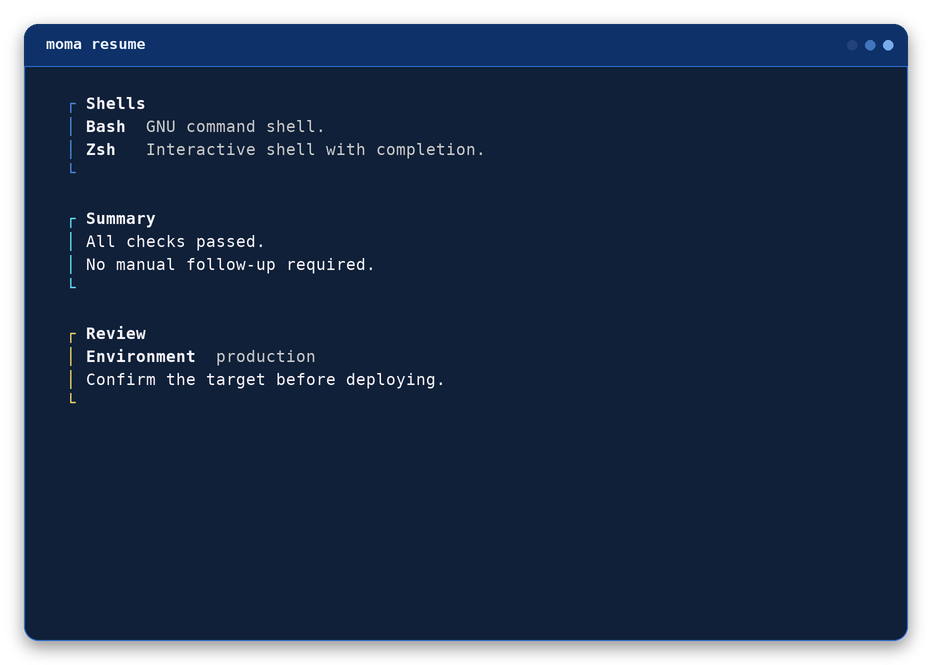
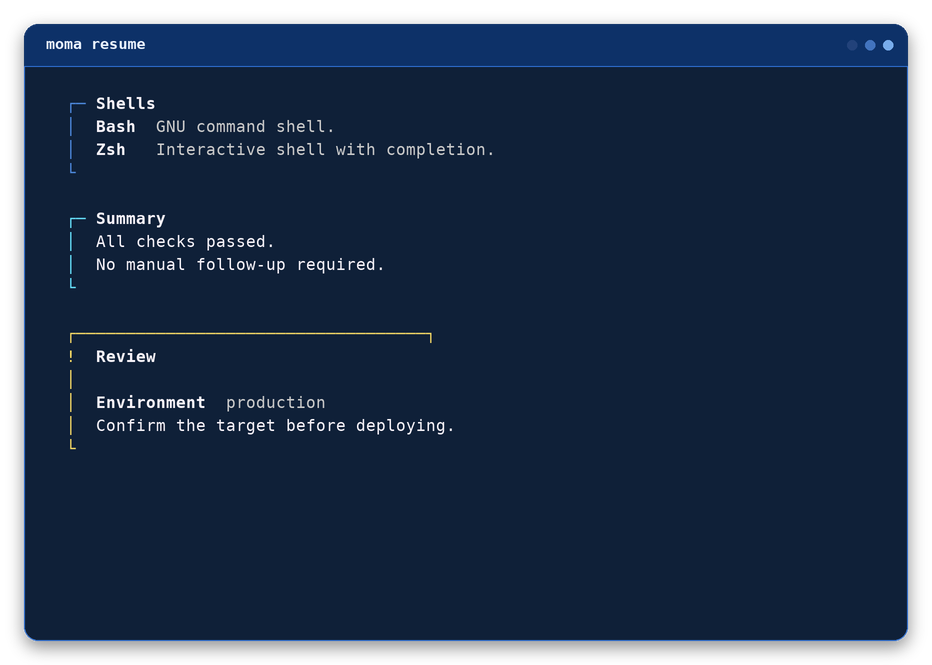
✨ feat(resume): add boxed title-style header and border options
Reuses moma-title's marker conventions instead of inventing a separate
component: --icon/--no-icon (plus --success|--error|--warning|--info)
switch resume's single-line title to a boxed header - full-width top
border, marker + title line, blank separator row - and --border
mirror|line|open controls whether the block closes with └. Also widens
resume's default indentation by one column (┌─ instead of ┌, one more
space after │) so the plain and boxed headers line up with each other.

diff --git a/web/src/data/apiEntries.ts b/web/src/data/apiEntries.ts
@@ -215,21 +215,27 @@ export const API_ENTRIES: ApiEntryData[] = [
     id: 'moma-resume',
     kind: 'Content block component',
     name: 'resume',
-    descriptionHtml: 'Titled, colored content block for grouping related information, such as a résumé section or a categorized reference list. Rows come from repeated <code>--item</code> (a bold term next to a muted description, aligned as a column) and <code>--text</code> (a plain line), interleaved in the order given.',
-    signature: 'moma resume --title "<text>" [--item "term" "description"]... [--text "line"]... [--success|--error|--warning|--info] [--color color] [--no-color]',
-    searchText: 'moma-resume resume block by blocks definition list term description column grouped section color item text',
+    descriptionHtml: 'Titled, colored content block for grouping related information, such as a résumé section or a categorized reference list. Rows come from repeated <code>--item</code> (a bold term next to a muted description, aligned as a column) and <code>--text</code> (a plain line), interleaved in the order given. The title is a single open line by default; setting an icon switches to a boxed header, mirroring <code>moma-title</code>\'s own marker conventions.',
+    signature: 'moma resume --title "<text>" [--item "term" "description"]... [--text "line"]... [--success|--error|--warning|--info] [--color color] [--icon char] [--no-icon] [--border mirror|line|open] [--width number] [--max-width number] [--no-color]',
+    searchText: 'moma-resume resume block by blocks definition list term description column grouped section color item text icon marker border mirror line open boxed header',
     group: 'visual',
     examples: [
       'moma resume --title "Shells" --color blue --item "Bash" "GNU command shell." --item "Zsh" "Interactive shell with completion."',
       'moma resume --title "Summary" --text "All checks passed." --text "No manual follow-up required."',
       'moma resume --title "Review" --warning --item "Environment" "production" --text "Confirm the target before deploying."',
+      'moma resume --title "Moma Terminal UI library" --no-icon --border open --text "element 1" --text "element 2"',
     ],
     options: [
       { flag: '--title <text>', description: 'Required block heading text. The component errors if this is never supplied.' },
       { flag: '--item <term> <description>', description: 'Repeatable. Adds one row with a bold term and a muted description, all terms aligned to the widest one in the block.' },
       { flag: '--text <line>', description: 'Repeatable. Adds one row of plain text with no term column.' },
-      { flag: '--success | --error | --warning | --info', description: "Sets only the block's border/title color to the semantic color - this component never shows an icon." },
+      { flag: '--success | --error | --warning | --info', description: 'Sets the border/title color to the semantic color and switches on the boxed header with the matching icon (✔, ✖, !, →).' },
       { flag: '--color <color>', description: "Sets the block's border/title color. Defaults to the primary color (cyan) when omitted." },
+      { flag: '--icon <char>', description: 'Switches on the boxed header with this character as its left marker.' },
+      { flag: '--no-icon', description: 'Switches on the boxed header with a plain box edge (│) instead of a marker.' },
+      { flag: '--border mirror | line | open', description: 'Controls the closing edge: mirror and line (default: mirror) close with └, open leaves the block unclosed.' },
+      { flag: '--width <number>', description: 'Forces an exact top-border width for the boxed header. Unset by default.' },
+      { flag: '--max-width <number>', description: 'Caps the top-border width for the boxed header. Unset by default.' },
       { flag: '--no-color', description: 'Strips ANSI color codes entirely.' },
     ],
   },

diff --git a/docs/moma-docs.md b/docs/moma-docs.md
@@ -280,8 +280,16 @@ résumé section or a categorized reference list. Rows come from repeated
 line follows the block, so calling `moma-resume` repeatedly stacks blocks
 with consistent spacing.
 
+The title is a single open line by default (`┌─ Title`). Setting `--icon`,
+`--no-icon`, or a semantic flag switches to a boxed header instead: a
+full-width top border, a marker + title line, and a blank separator row
+before the content rows - mirroring `moma-title`'s own marker conventions.
+`--border` controls the closing edge the same way it does on `moma-title`:
+`mirror` and `line` (default: `mirror`) close with `└`, `open` leaves the
+block unclosed.
+
 ```text
-moma resume --title "<text>" [--item "<term>" "<description>"]... [--text "<line>"]... [--success|--error|--warning|--info] [--color color] [--no-color]
+moma resume --title "<text>" [--item "<term>" "<description>"]... [--text "<line>"]... [--success|--error|--warning|--info] [--color color] [--icon char] [--no-icon] [--border mirror|line|open] [--width number] [--max-width number] [--no-color]
 ```
 
 ```bash
@@ -298,10 +306,16 @@ moma resume --title "Summary" --color cyan \
   --text "All checks passed." \
   --text "No manual follow-up required."
 
-# Example 3: semantic color and mixed row kinds
+# Example 3: semantic color and mixed row kinds - the semantic flag also
+# switches on the boxed header
 moma resume --title "Review" --warning \
   --item "Environment" "production" \
   --text "Confirm the target before deploying."
+
+# Example 4: boxed header, no marker, left unclosed
+moma resume --title "Moma Terminal UI library" --no-icon --border open \
+  --text "element 1" \
+  --text "element 2"
 ```
 
 ### `moma-prompt`
